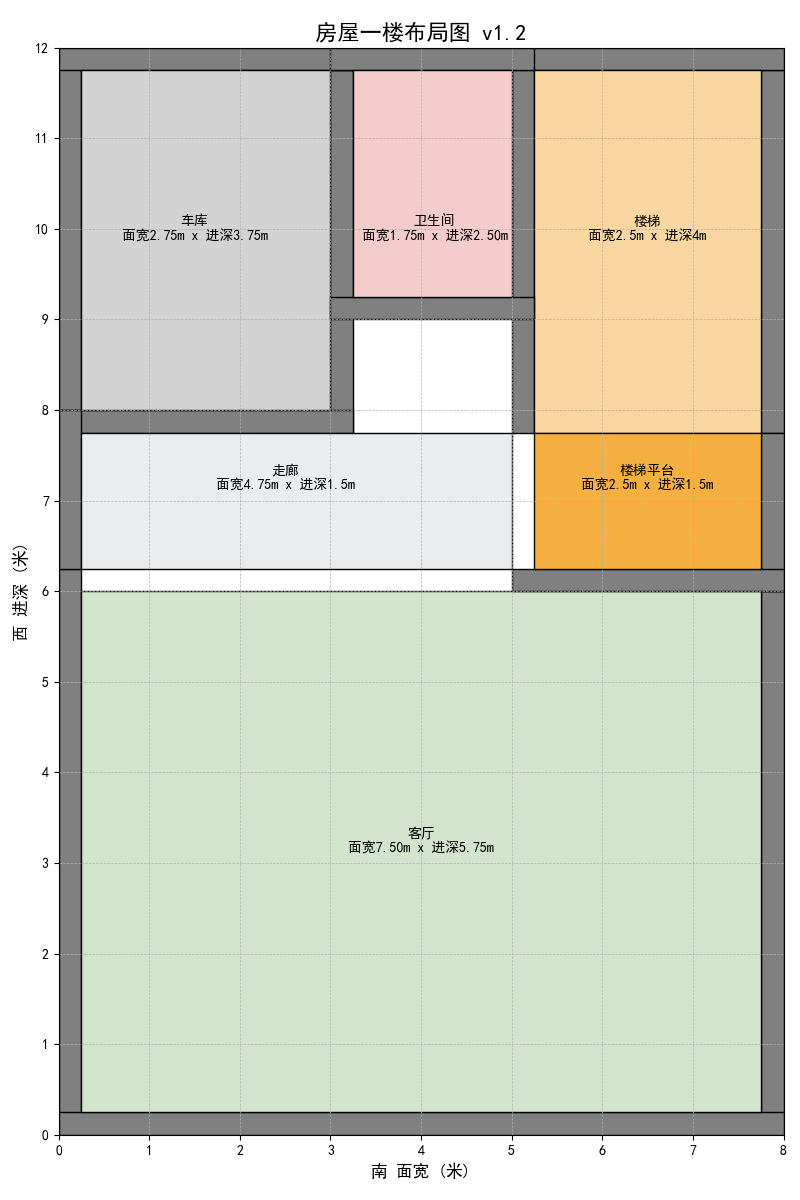
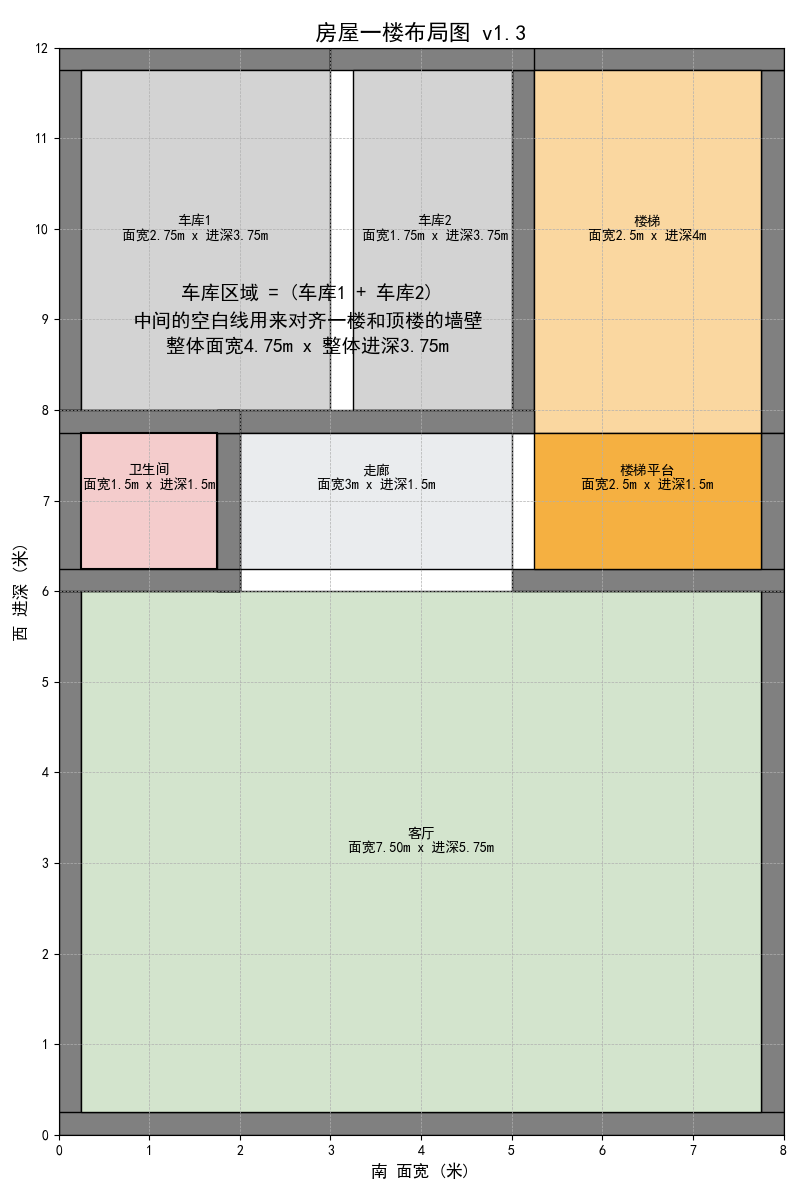
perf(floor_1nd.py): update v1.3

diff --git a/floor_1nd.py b/floor_1nd.py
@@ -50,23 +50,38 @@ ax.add_patch(
                       facecolor=colors['楼梯'], edgecolor='black', label='楼梯'))
 ax.text(6.5, 10, f"楼梯\n面宽2.5m x 进深{4}m", ha='center', va='center', fontsize=10)
 
-# 车库：位于左侧最里面的区域
-draw_wall(ax, 0, 8 - wall_thickness, 3 + wall_thickness, 4 + wall_thickness, adjacent=[])
+# # 车库：位于左侧最里面的区域
+# draw_wall(ax, 0, 8 - wall_thickness, 5 + wall_thickness, 4 + wall_thickness, adjacent=[])
+# ax.add_patch(patches.Rectangle((wall_thickness, 8), 5 - wall_thickness, 4 - wall_thickness,
+#                                facecolor=colors['车库'], edgecolor='black', label='车库'))
+# ax.text(2.75, 10, f"车库\n面宽{3 - wall_thickness:.2f}m x 进深{4 - wall_thickness:.2f}m",
+#         ha='center', va='center', fontsize=10)
+
+
+# 调整文字位置使其居中
+ax.text(5.5 / 2, 9,
+        f"车库区域 = (车库1 + 车库2)\n中间的空白线用来对齐一楼和顶楼的墙壁\n整体面宽{5.5 - 3 * wall_thickness:.2f}m x 整体进深{3.75:.2f}m",
+        ha='center', va='center',
+        fontsize=14,
+        fontweight='bold', linespacing=1.5)
+
+# 车库1（左侧）
+draw_wall(ax, 0, 8 - wall_thickness, 3, 4 + wall_thickness, adjacent=['bottom', 'right'])
 ax.add_patch(patches.Rectangle((wall_thickness, 8), 3 - wall_thickness, 4 - wall_thickness,
                                facecolor=colors['车库'], edgecolor='black', label='车库'))
-ax.text(1.5, 10, f"车库\n面宽{3 - wall_thickness:.2f}m x 进深{4 - wall_thickness:.2f}m",
+# 文字水平居中
+ax.text(1.5, 10, f"车库1\n面宽{3 - wall_thickness:.2f}m x 进深{4 - wall_thickness:.2f}m",
         ha='center', va='center', fontsize=10)
 
-# 卫生间
-draw_wall(ax, 3, 9, 2.5 - wall_thickness, 3, adjacent=['left', 'right'])
+# 车库2（中间）
+draw_wall(ax, 3, 8 - wall_thickness, 2.5 - wall_thickness, 4 + wall_thickness, exclude=['left', 'right', 'bottom'])
 ax.add_patch(
-    patches.Rectangle((3 + wall_thickness, 9 + wall_thickness), 2.5 - 3 * wall_thickness, 3 - 2 * wall_thickness,
-                      facecolor=colors['卫生间'], edgecolor='black', label='卫生间'))
-ax.text(4.15, 10, f"卫生间\n面宽{2.5 - 3 * wall_thickness:.2f}m x 进深{3 - 2 * wall_thickness:.2f}m",
+    patches.Rectangle((3 + wall_thickness, 8), 2.5 - 3 * wall_thickness, 4 - wall_thickness,
+                      facecolor=colors['车库'], edgecolor='black', label='车库'))
+# 文字水平居中
+ax.text(4.15, 10, f"车库2\n面宽{2.5 - 3 * wall_thickness:.2f}m x 进深{4 - wall_thickness:.2f}m",
         ha='center', va='center', fontsize=10)
 
-# 走廊：位于楼梯、卫生间和车库的前面
-# 修改为两部分：楼梯平台和其他走廊
 # 楼梯平台：宽2.5米，长1.5米
 draw_wall(ax, 5, 6, 3, 1.5 + wall_thickness * 2,
           exclude=['top', 'left'], adjacent=['top', 'left'])
@@ -75,13 +90,22 @@ ax.add_patch(
                       facecolor=colors['楼梯平台'], edgecolor='black', label='楼梯平台'))
 ax.text(6.5, 7.25, f"楼梯平台\n面宽{3 - 2 * wall_thickness}m x 进深1.5m", ha='center', va='center', fontsize=10)
 
-# 其他走廊：剩余部分
-draw_wall(ax, 0, 6.5 - wall_thickness, 5 + wall_thickness, 1.5 + wall_thickness,
-          exclude=['top', 'right', 'bottom'], adjacent=['top', 'right', 'bottom'])
-ax.add_patch(patches.Rectangle((wall_thickness, 6.5 - wall_thickness), 5 - wall_thickness, 1.5,
+# 走廊：剩余部分
+draw_wall(ax, 2 - wall_thickness, 6.5 - 2 * wall_thickness, 3 + 2 * wall_thickness, 1.5 + 2 * wall_thickness,
+          exclude=['right', 'bottom'], adjacent=['right', 'bottom'])
+ax.add_patch(patches.Rectangle((2, 6.5 - wall_thickness), 3, 1.5,
                                facecolor=colors['走廊'], edgecolor='black'))
-ax.text(2.5, 7.25, f"走廊\n面宽{5 - wall_thickness :.2f}m x 进深1.5m",
-        ha='center', va='center', fontsize=10)
+# 文字水平居中
+ax.text(3.5, 7.25, f"走廊\n面宽{3}m x 进深1.5m",
+        ha='center', va='center', fontsize=10, color='black')
+
+# 客厅卫生间：位于次卧上方
+draw_wall(ax, 0, 6, 2, 2)
+ax.add_patch(
+    patches.Rectangle((wall_thickness, 6 + wall_thickness), 2 - 2 * wall_thickness, 2 - 2 * wall_thickness,
+                      facecolor=colors['卫生间'], edgecolor='black', linewidth=1.5))
+ax.text(1, 7.25, f"卫生间\n面宽{1.5}m x 进深{1.5}m",
+        ha='center', va='center', fontsize=10, color='black', fontweight='bold')
 
 # # 新增: 绘制大门
 # door_width = 1.8  # 大门宽度

diff --git a/globals.py b/globals.py
@@ -7,7 +7,7 @@
 @Description: 
 """
 
-VERSION = "v1.2"
+VERSION = "v1.3"
 
 FLOOR_1_TITLE = f"房屋一楼布局图 {VERSION}"
 FLOOR_1_5_TITLE = f"厨房布局图 {VERSION}"
